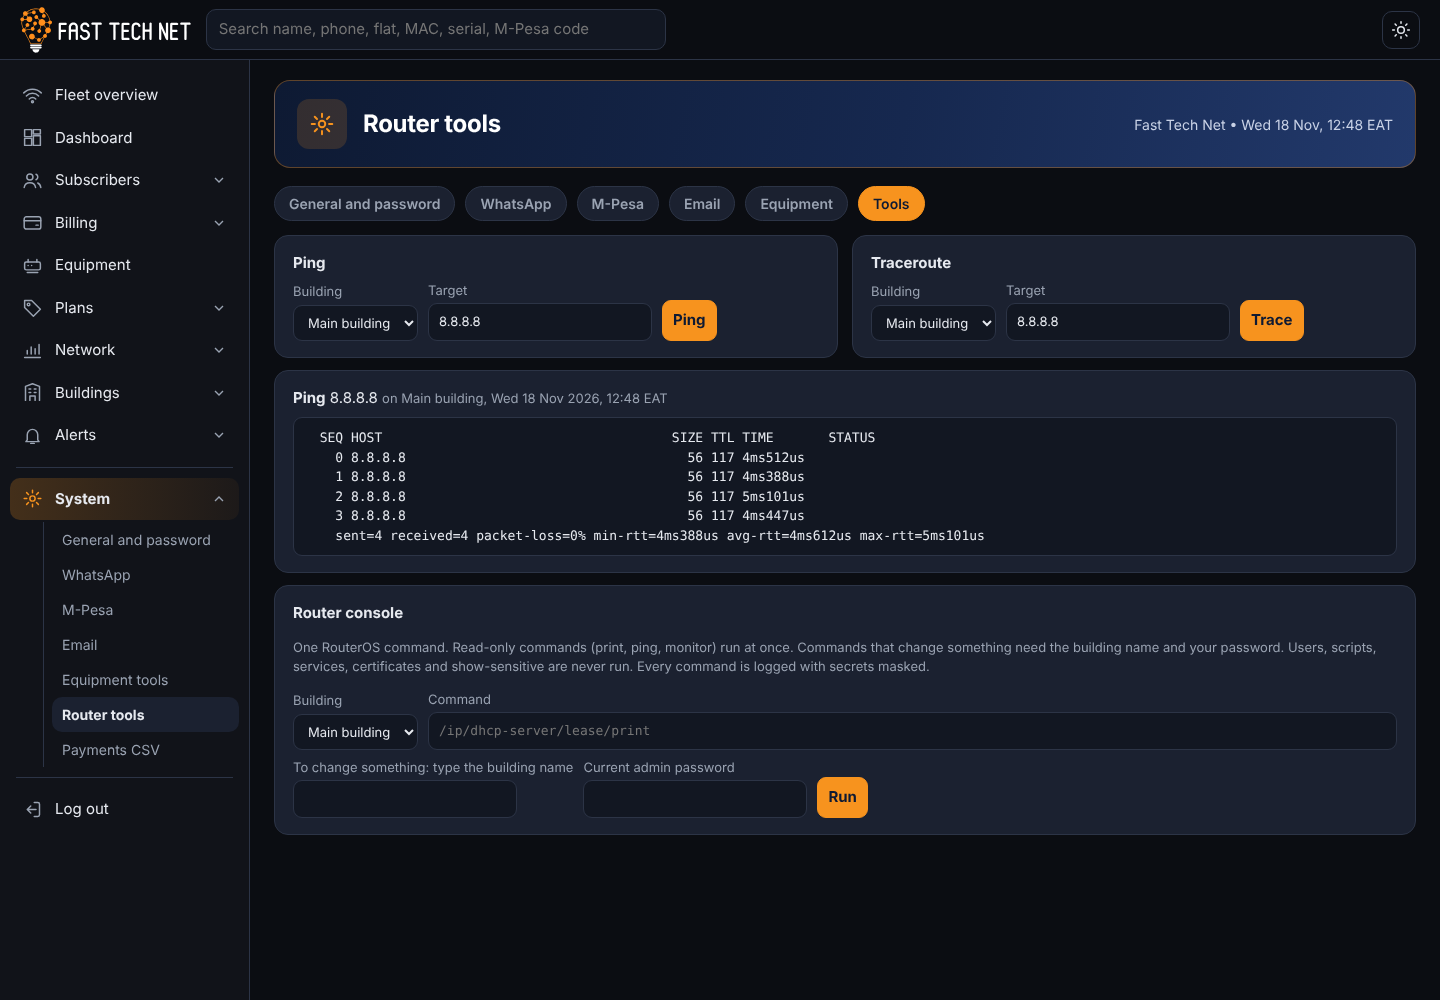
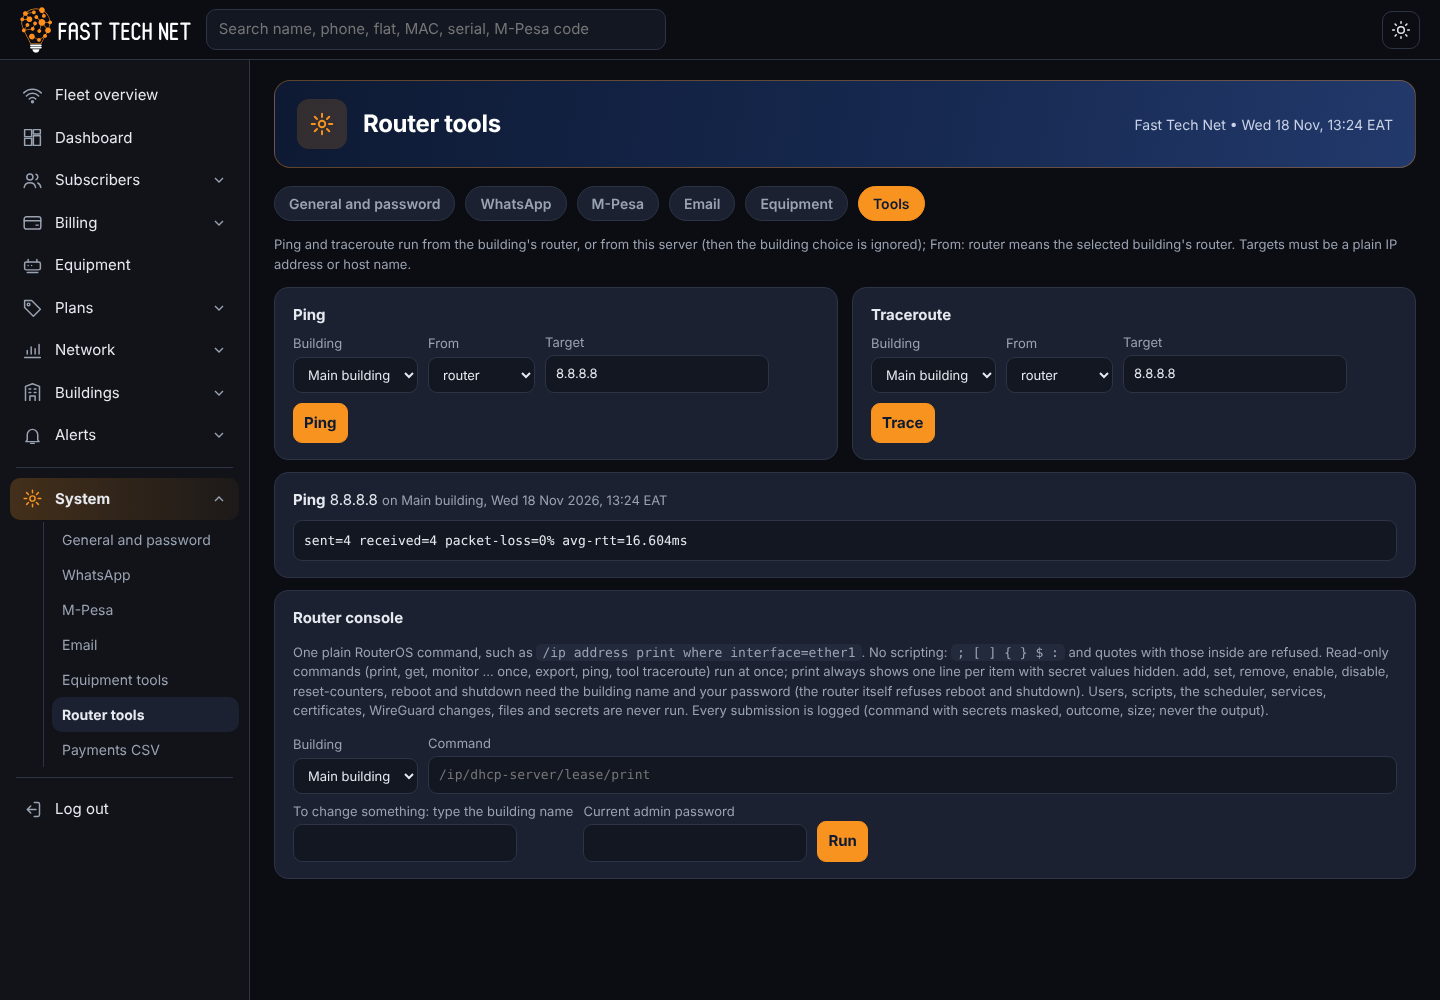
Tools page: From choice labels, new screenshot
Claude-Session: https://claude.ai/code/session_01LiZqzyK1k1cLYYiQPsw9D9

diff --git a/internal/web/templates/admin_settings_pages.html b/internal/web/templates/admin_settings_pages.html
@@ -62,12 +62,12 @@
 
 {{define "admin_tools"}}{{template "ahead" .}}{{template "set_tabs" .}}
 {{if not .Data.Sites}}<div class="card muted">No connected building yet. Tools run on a building's router.</div>{{else}}
-<p class="muted">Ping and traceroute run from the building's router, or from this server (then the building choice is ignored). Targets must be a plain IP address or host name.</p>
+<p class="muted">Ping and traceroute run from the building's router, or from this server (then the building choice is ignored); From: router means the selected building's router. Targets must be a plain IP address or host name.</p>
 <div class="grid2">
 <div class="card"><b>Ping</b><form method="post" action="/admin/tools/ping" class="row" style="margin-top:6px"><input type="hidden" name="_csrf" value="{{.CSRF}}">
-<label>Building<select name="site">{{range .Data.Sites}}<option value="{{.ID}}"{{if eq .ID $.Data.SiteID}} selected{{end}}>{{.Name}}</option>{{end}}</select></label><label>From<select name="from"><option value="router"{{if ne $.Data.From "server"}} selected{{end}}>the building's router</option><option value="server"{{if eq $.Data.From "server"}} selected{{end}}>this server</option></select></label><label>Target<input name="target" value="8.8.8.8" autocomplete="off"></label><button>Ping</button></form></div>
+<label>Building<select name="site">{{range .Data.Sites}}<option value="{{.ID}}"{{if eq .ID $.Data.SiteID}} selected{{end}}>{{.Name}}</option>{{end}}</select></label><label>From<select name="from"><option value="router"{{if ne $.Data.From "server"}} selected{{end}}>router</option><option value="server"{{if eq $.Data.From "server"}} selected{{end}}>this server</option></select></label><label>Target<input name="target" value="8.8.8.8" autocomplete="off"></label><button>Ping</button></form></div>
 <div class="card"><b>Traceroute</b><form method="post" action="/admin/tools/traceroute" class="row" style="margin-top:6px"><input type="hidden" name="_csrf" value="{{.CSRF}}">
-<label>Building<select name="site">{{range .Data.Sites}}<option value="{{.ID}}"{{if eq .ID $.Data.SiteID}} selected{{end}}>{{.Name}}</option>{{end}}</select></label><label>From<select name="from"><option value="router"{{if ne $.Data.From "server"}} selected{{end}}>the building's router</option><option value="server"{{if eq $.Data.From "server"}} selected{{end}}>this server</option></select></label><label>Target<input name="target" value="8.8.8.8" autocomplete="off"></label><button>Trace</button></form></div>
+<label>Building<select name="site">{{range .Data.Sites}}<option value="{{.ID}}"{{if eq .ID $.Data.SiteID}} selected{{end}}>{{.Name}}</option>{{end}}</select></label><label>From<select name="from"><option value="router"{{if ne $.Data.From "server"}} selected{{end}}>router</option><option value="server"{{if eq $.Data.From "server"}} selected{{end}}>this server</option></select></label><label>Target<input name="target" value="8.8.8.8" autocomplete="off"></label><button>Trace</button></form></div>
 </div>
 {{with .Data.Result}}<div class="card"><b>{{.Tool}}</b> {{.Target}} <span class="muted">on {{.Site}}, {{eat .Ran}}</span>
 {{if .Err}}<p class="bad">{{.Err}}</p>{{end}}
